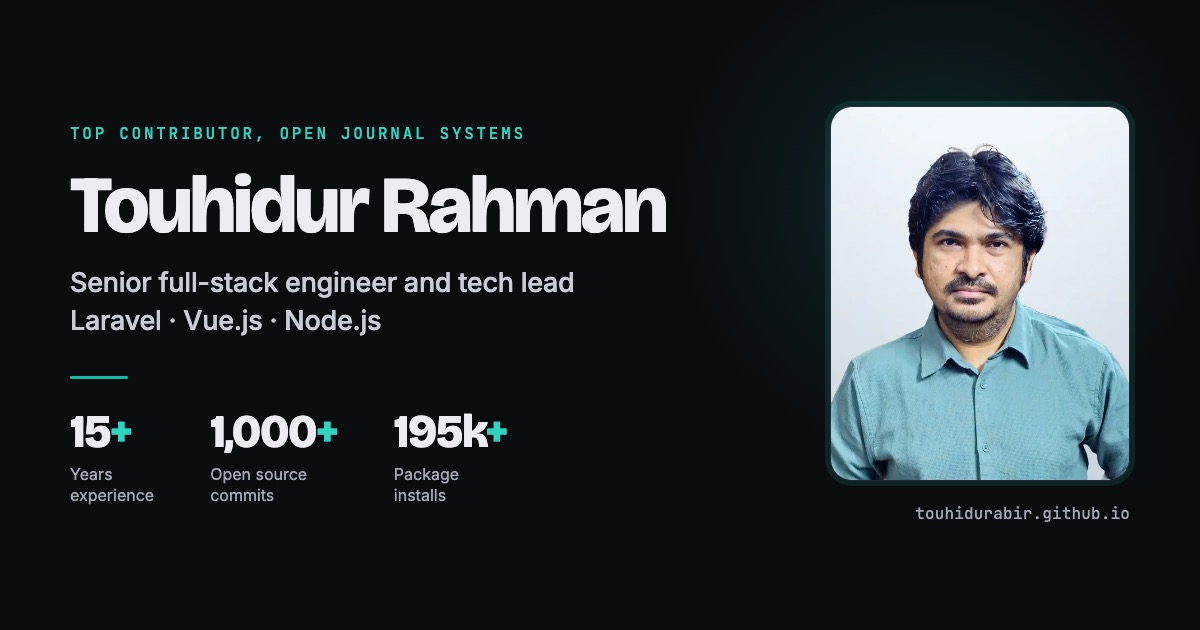
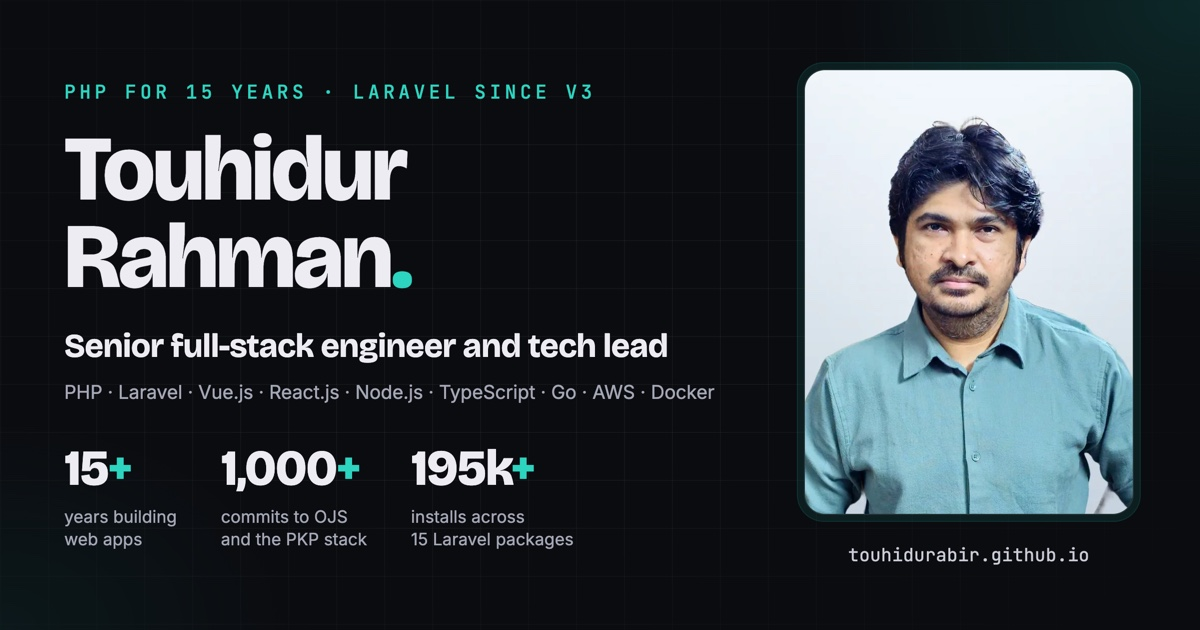
Redesign the share card and drop the stack from the portrait caption

diff --git a/index.html b/index.html
@@ -19,8 +19,8 @@
 	<meta property="og:title" content="Touhidur Rahman | Senior Full-Stack Engineer and Tech Lead">
 	<meta property="og:description" content="Full-stack engineer and tech lead with 15+ years building production web applications in PHP, Laravel, TypeScript, Vue.js, React and Node.js. One of the top contributors to Open Journal Systems, and author of 15 Laravel packages with 195k+ installs. Open to senior, lead and full-stack roles, remote, full-time or contract.">
 	<meta property="og:url" content="https://touhidurabir.github.io/">
-	<meta property="og:image" content="https://touhidurabir.github.io/img/og-card.jpg?v=2">
-	<meta property="og:image:alt" content="Touhidur Rahman, senior full-stack engineer and tech lead, one of the top contributors to Open Journal Systems. 15+ years experience, 1,000+ open source commits, 195k+ package installs.">
+	<meta property="og:image" content="https://touhidurabir.github.io/img/og-card.jpg?v=3">
+	<meta property="og:image:alt" content="Touhidur Rahman, senior full-stack engineer and tech lead. PHP, Laravel, Vue.js, React.js, Node.js, TypeScript, Go, AWS and Docker. 15+ years building web apps, 1,000+ commits to OJS and the PKP stack, 195k+ installs across 15 Laravel packages.">
 	<meta property="og:image:width" content="1200">
 	<meta property="og:image:height" content="630">
 	<meta property="og:image:type" content="image/jpeg">
@@ -31,7 +31,7 @@
 	<meta name="twitter:card" content="summary_large_image">
 	<meta name="twitter:title" content="Touhidur Rahman | Senior Full-Stack Engineer and Tech Lead">
 	<meta name="twitter:description" content="Full-stack engineer and tech lead with 15+ years in PHP, Laravel, Vue.js and Node.js. One of the top contributors to Open Journal Systems. 15 Laravel packages with 195k+ installs.">
-	<meta name="twitter:image" content="https://touhidurabir.github.io/img/og-card.jpg?v=2">
+	<meta name="twitter:image" content="https://touhidurabir.github.io/img/og-card.jpg?v=3">
 
 	<link rel="icon" type="image/webp" href="img/me-2.webp?v=2">
 	<link rel="apple-touch-icon" href="img/apple-touch-icon.png?v=2">
@@ -315,7 +315,7 @@
 
 					<figure class="portrait">
 						<img src="img/me-1.webp" alt="Touhidur Rahman, senior full-stack engineer" width="660" height="880" fetchpriority="high">
-						<figcaption class="portrait-tag"><b>Touhidur Rahman</b><span>Laravel · Vue · Node</span></figcaption>
+						<figcaption class="portrait-tag"><b>Touhidur Rahman</b></figcaption>
 					</figure>
 				</div>
 

diff --git a/cv.html b/cv.html
@@ -19,8 +19,8 @@
 	<meta property="og:title" content="CV | Touhidur Rahman | Senior Full-Stack Engineer and Tech Lead">
 	<meta property="og:description" content="The full CV of Touhidur Rahman, senior full-stack engineer and tech lead. 15+ years in PHP, Laravel, Vue.js and Node.js, lead architect at Dentall Manager, core contributor to Open Journal Systems from 2022 to 2026, and 15 Laravel packages with 195k+ installs.">
 	<meta property="og:url" content="https://touhidurabir.github.io/cv.html">
-	<meta property="og:image" content="https://touhidurabir.github.io/img/og-card.jpg?v=2">
-	<meta property="og:image:alt" content="Touhidur Rahman, senior full-stack engineer and tech lead, one of the top contributors to Open Journal Systems. 15+ years experience, 1,000+ open source commits, 195k+ package installs.">
+	<meta property="og:image" content="https://touhidurabir.github.io/img/og-card.jpg?v=3">
+	<meta property="og:image:alt" content="Touhidur Rahman, senior full-stack engineer and tech lead. PHP, Laravel, Vue.js, React.js, Node.js, TypeScript, Go, AWS and Docker. 15+ years building web apps, 1,000+ commits to OJS and the PKP stack, 195k+ installs across 15 Laravel packages.">
 	<meta property="og:image:width" content="1200">
 	<meta property="og:image:height" content="630">
 	<meta property="og:image:type" content="image/jpeg">
@@ -31,7 +31,7 @@
 	<meta name="twitter:card" content="summary_large_image">
 	<meta name="twitter:title" content="CV | Touhidur Rahman | Senior Full-Stack Engineer and Tech Lead">
 	<meta name="twitter:description" content="Senior full-stack engineer and tech lead with 15+ years in PHP, Laravel, Vue.js and Node.js. Core contributor to Open Journal Systems from 2022 to 2026.">
-	<meta name="twitter:image" content="https://touhidurabir.github.io/img/og-card.jpg?v=2">
+	<meta name="twitter:image" content="https://touhidurabir.github.io/img/og-card.jpg?v=3">
 
 	<link rel="icon" type="image/webp" href="img/me-2.webp?v=2">
 	<link rel="apple-touch-icon" href="img/apple-touch-icon.png?v=2">
